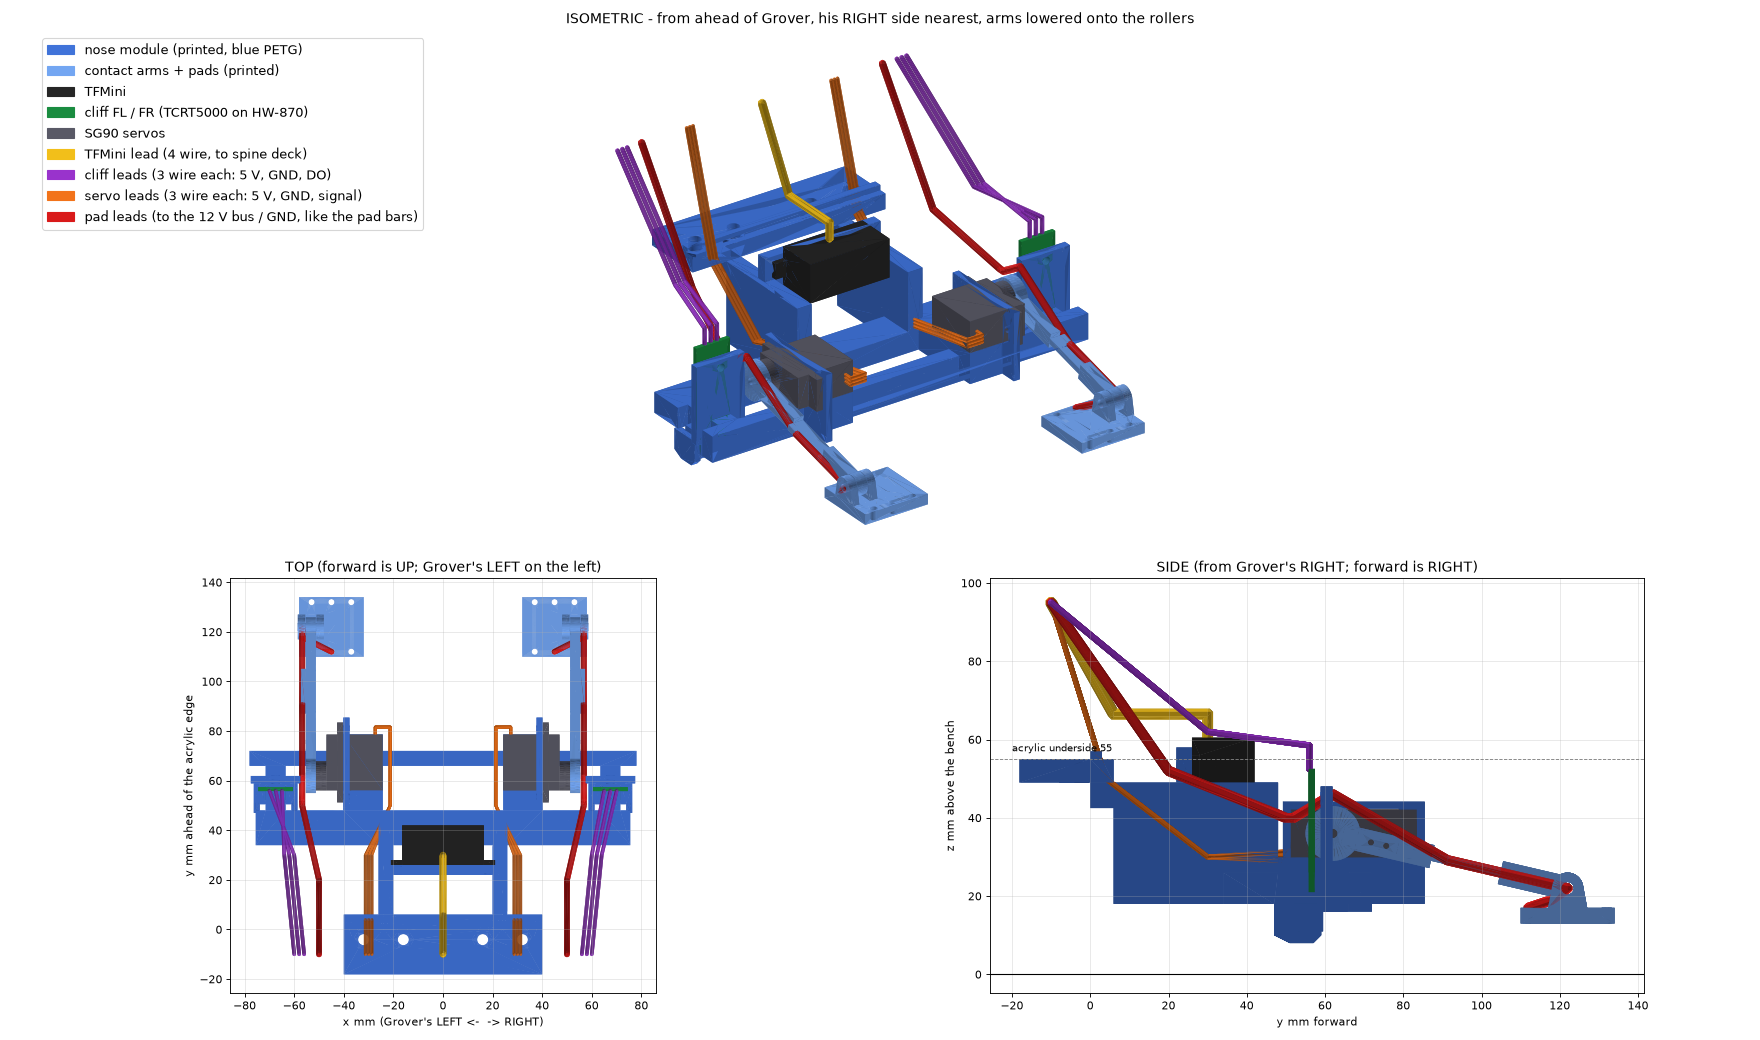
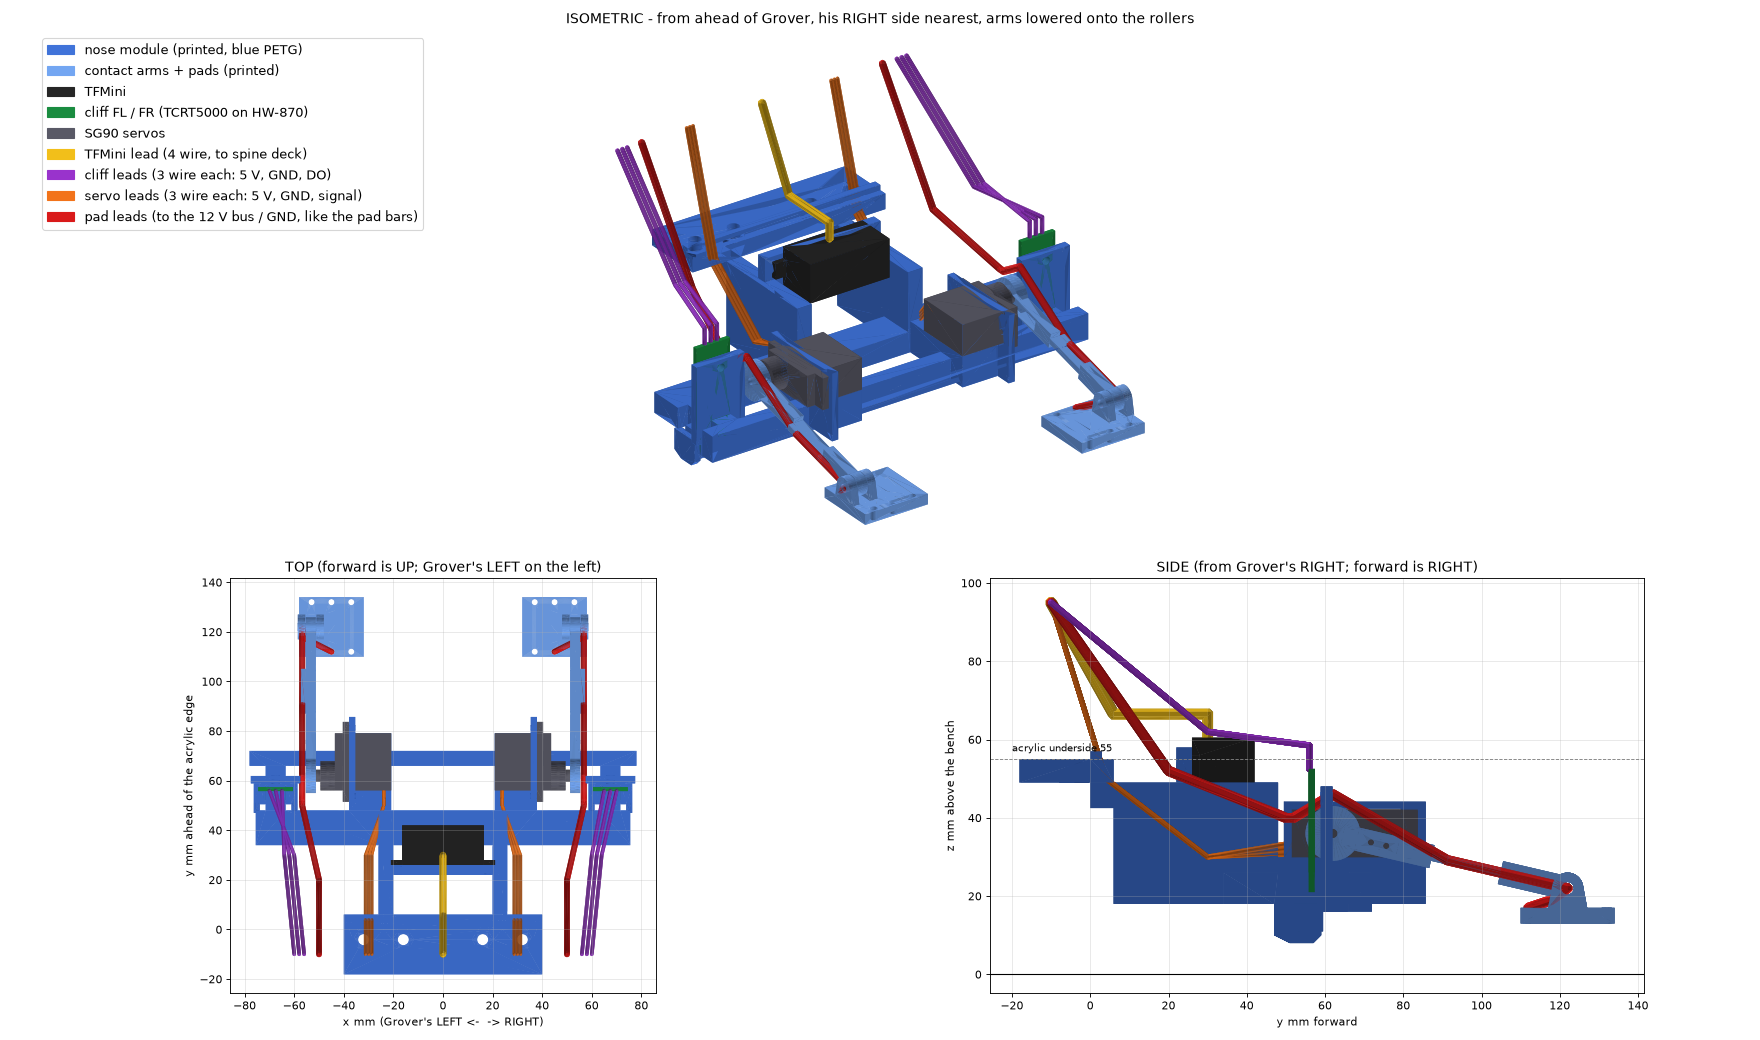
hardware: nose module - servo mount to the S51/SG90 datasheet (tab F 19.5, spline A 32), servo lead from the shaft-end face

diff --git a/JOURNAL.md b/JOURNAL.md
@@ -646,7 +646,7 @@ distance, spacing, chamfer size.
   behind the acrylic's edge (centres ~4 mm). **Nose module v1 drafted**
   (`hardware/nose-module.scad`, not sliced): foot on holes 1/3/7/9 with a
   lip, TFMini plate, socketed cliffs with skids, bumper at 66-72 mm, two
-  SG90s (Enoch's are Smraza S51 9 g) lying on the bumper, shafts outboard,
+  SG90s (Enoch's are Smraza S51 9 g; datasheet A 32 / B 23 / C 28.5 / D 12 / E 32 / F 19.5; lead leaves the shaft-end face near the base) lying on the bumper, shafts outboard,
   62 mm arms with a horn pocket, a thin leaf section as the spring and a
   free M3 hinge so each 26 x 24 mm pad sits flat; three fore-aft 12 AWG
   runs 8 mm apart per pad. Review views (`nose-module-views.png`) and an
